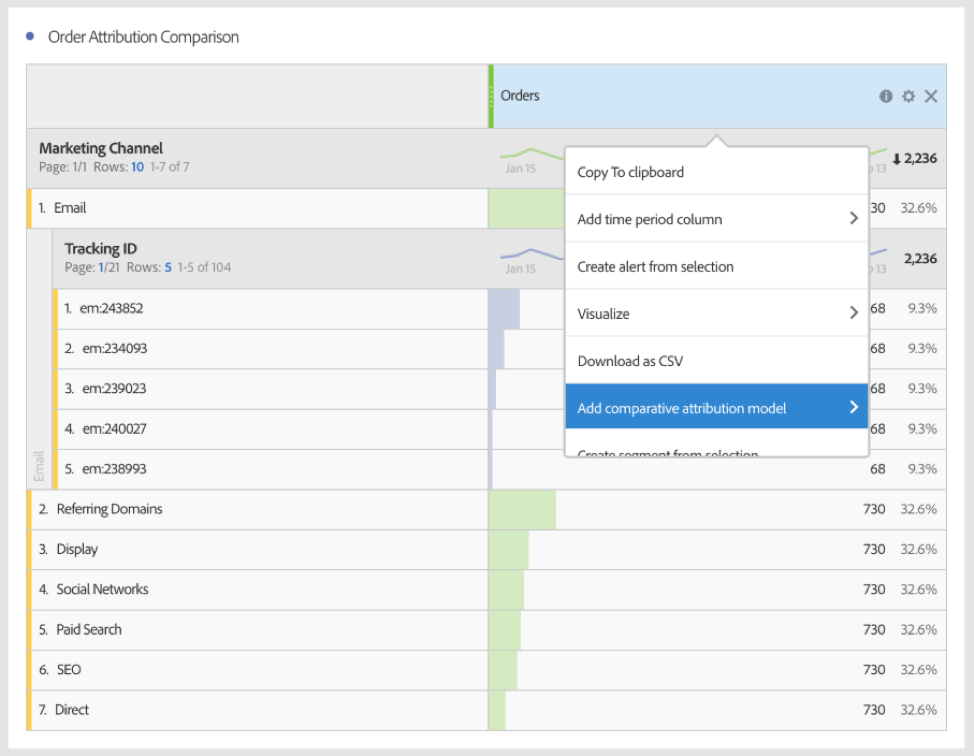
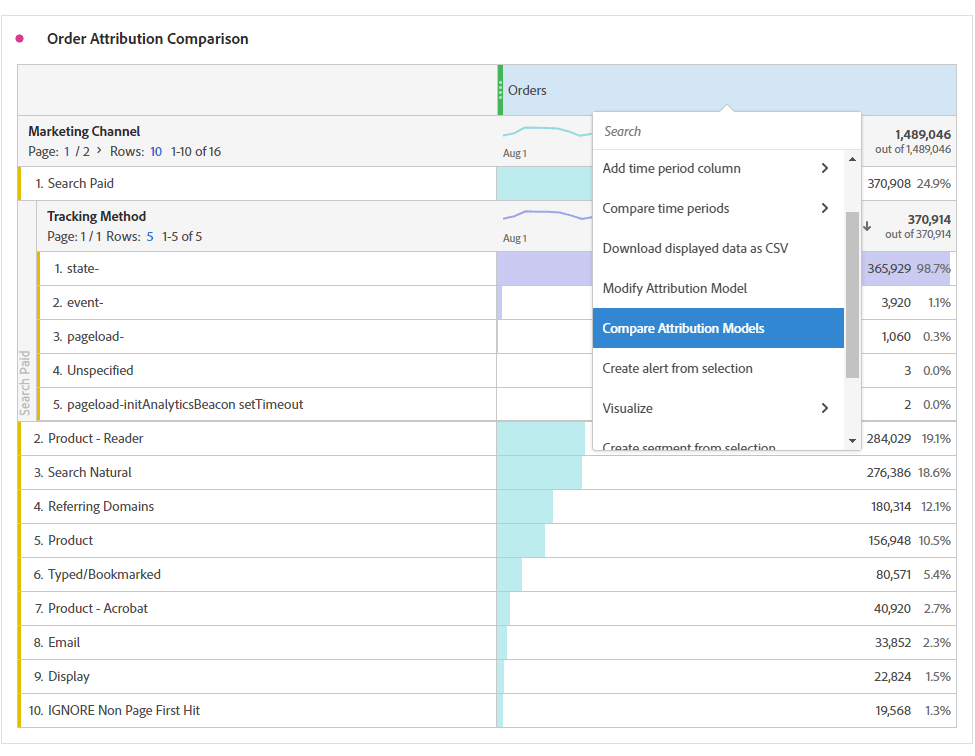
Updating screenshot

Changed region(s): [[0.0, 0.0, 1.0, 1.0]]

diff --git a/help/analyze/analysis-workspace/components/apply-create-metrics.md b/help/analyze/analysis-workspace/components/apply-create-metrics.md
@@ -16,7 +16,7 @@ You can either drag a standard metric, calculated metric, or calculated metric t
 >
 >While this is seemingly simple, the use of metrics is rather powerful. You can add metrics to a report by dragging the appropriate metric to the metrics section of a table. You can also break down dimensions by metrics, giving you fine-grained control over the table view. Furthermore, you can insert a metric as a dimension and a dimension as a metric to create an overtime report. Play around with the various components and see what you can do. The possibilities are endless.
 
-Or you can click **[!UICONTROL Components]** > **[!UICONTROL New Metric]**. This will take you to the [Calculated Metric Builder](https://docs.adobe.com/content/help/en/analytics/components/calculated-metrics/cm-overview.html), where you can build custom metrics from existing metrics.
+Or you can click **[!UICONTROL Components]** > **[!UICONTROL New Metric]**. This will take you to the [Calculated Metric Builder](/help/components/c-calcmetrics/cm-overview.md), where you can build custom metrics from existing metrics.
 
 To make it easier to quickly create calculated metrics, **[!UICONTROL Create metric from selection]** has been added to the column right-click menu in Freeform Tables. This option displays when one or more header column cells are selected.
 
@@ -26,7 +26,7 @@ To make it easier to quickly create calculated metrics, **[!UICONTROL Create met
 
 ## Compare metrics with different attribution models
 
-If you'd like to quickly and easily compare one attribution model to another, right click a metric and select **[!UICONTROL Add comparative attribution model]**:
+If you'd like to quickly and easily compare one attribution model to another, right click a metric and select **[!UICONTROL Compare Attribution Models]**:
 
 ![Compare attribution](assets/compare-attribution.png)
 
